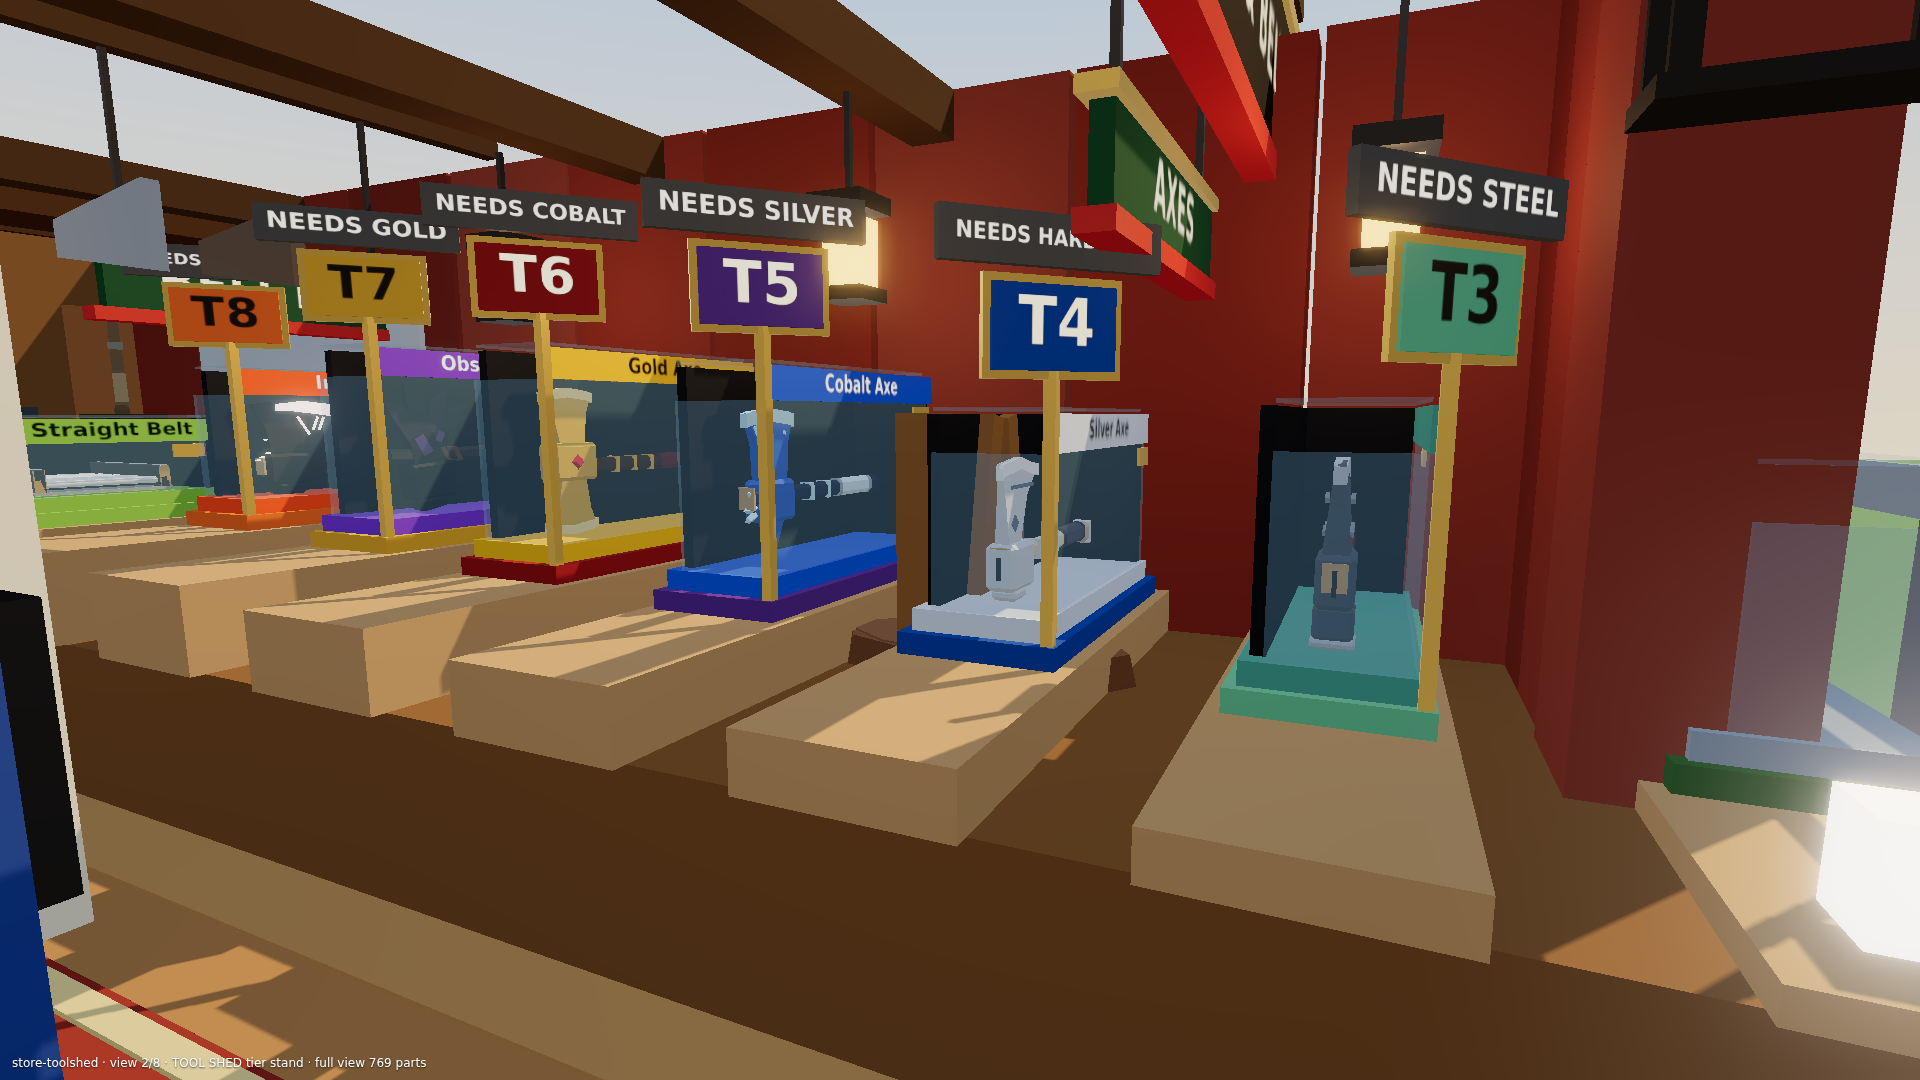
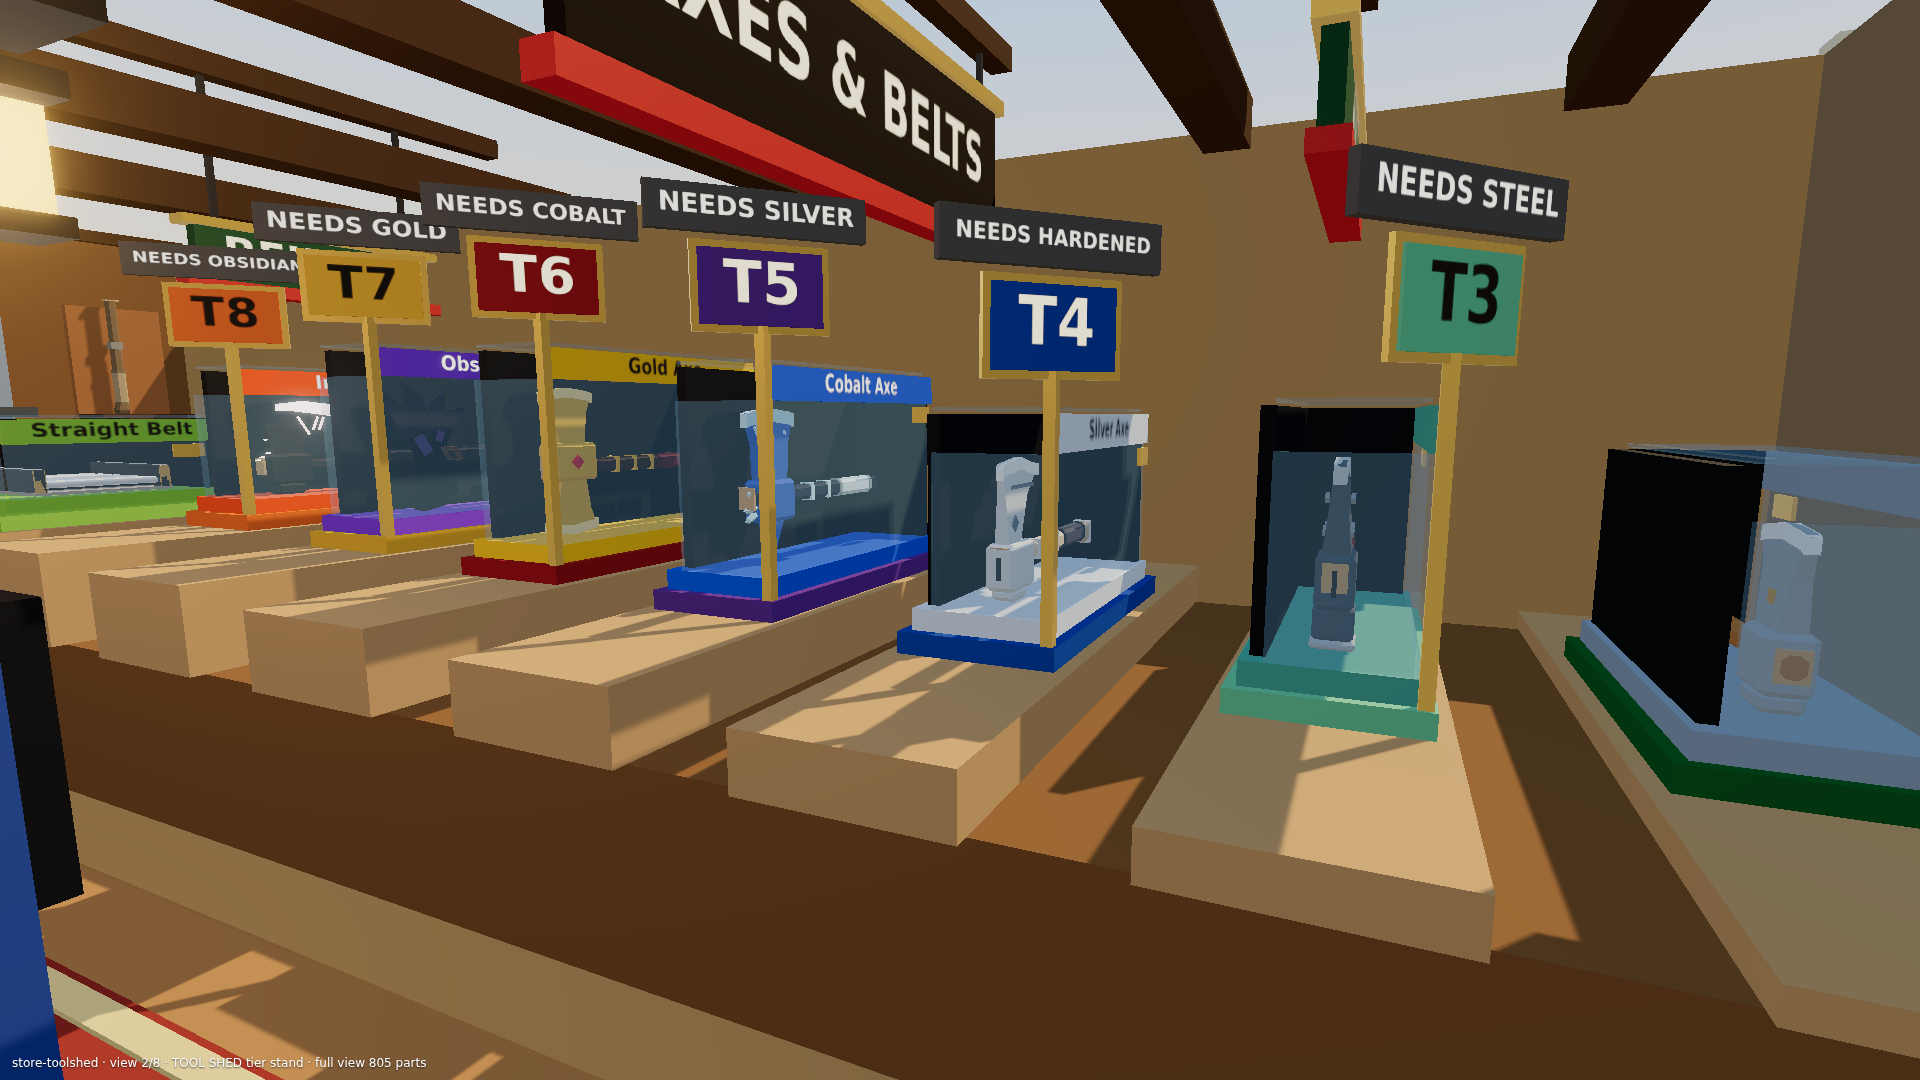
phase-2: store kit: headers over mid-lane, calmer phone view, light caps and near-white Neon spec, roof-off part-built shell previews

diff --git a/STATUS.md b/STATUS.md
@@ -41,7 +41,7 @@ A polish pass on every store interior so all stores read as one Timberline famil
 6. Preview: copy `tools/preview/scenes/store-toolshed.luau` to `store-<store>.luau` (views are always 1 entrance, 2 tier-stand, 3 phone, 4 night; extra views from 5). Render `bash tools/preview/shoot.sh store-<store> 1 1920x1080` (and 2, 4; view 3 at `667x375`), inspect each image up close, and copy them to `previews/store-interiors/<store>-{entrance,tier-stand,phone,night}.png`.
 7. Hearth & Home's side aisles are 3.2 studs and the lanes are pinned by `ShelfLayout.spec` and `StoreStock.spec`; do not move lanes to widen them (Awaiting Connor).
 
-**Tool Shed (pilot)**: header "AXES & BELTS" over the west table and "MACHINES" over the east one, sub-signs AXES, BELT KIT, SAWMILLS, PLANERS & SAW (the four groups cover all 21 slots); a tier stand per slot (axes T2 to T8, sawmills T1 to T5, planers T1 to T4; belts, Sky Bin and chop saw have no tier, so a category-colour stand and no flag); lock chips on axes ("NEEDS STEEL" over Hardened and so on); a CHECKOUT plaque on the counter with a keeper mat; 8 warm lanterns on a 4-beam, 1-rafter timber frame, the signs hung from collar ties up in the barn (y 15.2); a stock corner with the real Crate and Barrel meshes (parts first, swapped in). Interior parts: about 245 (budget 400, `StoreInterior.ToolShed.spec`). Preview renders (scene `store-toolshed`, roof off): `previews/store-interiors/toolshed-entrance.png`, `toolshed-tier-stand.png`, `toolshed-phone.png` (667x375), `toolshed-night.png`, and `contact-sheet.png` (`python3 tools/preview/store_contact_sheet.py` rebuilds it from every store's PNGs). Not mine and seen in the old store renders too: two white glowing cubes at the front of the tables and a big white block over the door (not parts of the interior; unexplained).
+**Tool Shed (pilot)**: header "AXES & BELTS" over the west table and "MACHINES" over the east one, sub-signs AXES, BELT KIT, SAWMILLS, PLANERS & SAW (the four groups cover all 21 slots); a tier stand per slot (axes T2 to T8, sawmills T1 to T5, planers T1 to T4; belts, Sky Bin and chop saw have no tier, so a category-colour stand and no flag); lock chips on axes ("NEEDS STEEL" over Hardened and so on); a CHECKOUT plaque on the counter with a keeper mat; 8 warm lanterns on a 4-beam, 1-rafter timber frame, the signs hung from collar ties up in the barn (y 15.2); a stock corner with the real Crate and Barrel meshes (parts first, swapped in). Interior parts: about 245 (budget 400, `StoreInterior.ToolShed.spec`). Preview renders (scene `store-toolshed`, roof off): `previews/store-interiors/toolshed-entrance.png`, `toolshed-tier-stand.png`, `toolshed-phone.png` (667x375), `toolshed-night.png`, and `contact-sheet.png` (`python3 tools/preview/store_contact_sheet.py` rebuilds it from every store's PNGs). The white blown-out blocks (over the door, at the table fronts) in the first pilot renders were NOT interior parts: they are lamp blocks baked into the Tool Shed barn GLB (the shell mesh). `GameConfig.TownMeshes` is false today, so the game shows the part-built shell and no such blocks; the preview scenes now set `TownMeshes.Enabled = false` for the shell to match (`opts.townMeshes = true` brings the barn GLB back). Interior lights and Neon are capped by `ShopKit.MaxLightBrightness` (1), `MaxLightRange` (22) and `ShopKit.NearWhite` (no near-white Neon), checked for the whole shop in `StoreInterior.ToolShed.spec`. Headers hang over mid-lane (z -8) from collar ties so they read from just inside the door; sub-signs never hang in the first 6 studs of a lane (`ShopKit.SubSetback`) and sit toward the wall.
 
 **Pinned number moved (design moved):** `BuildingArt.spec` whole-shop part cap for the Tool Shed 250 to 400 (the shop is 366 parts now; the interior alone has the 400 budget in `StoreInterior.ToolShed.spec`).
 
